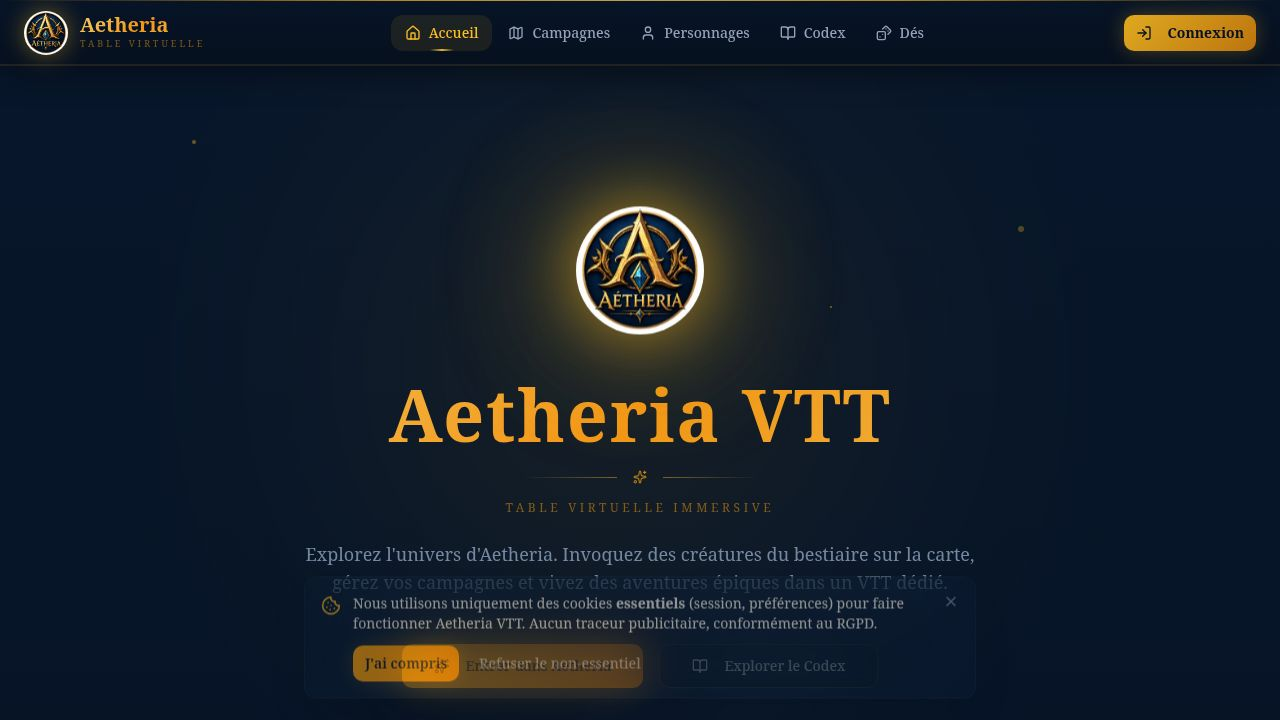
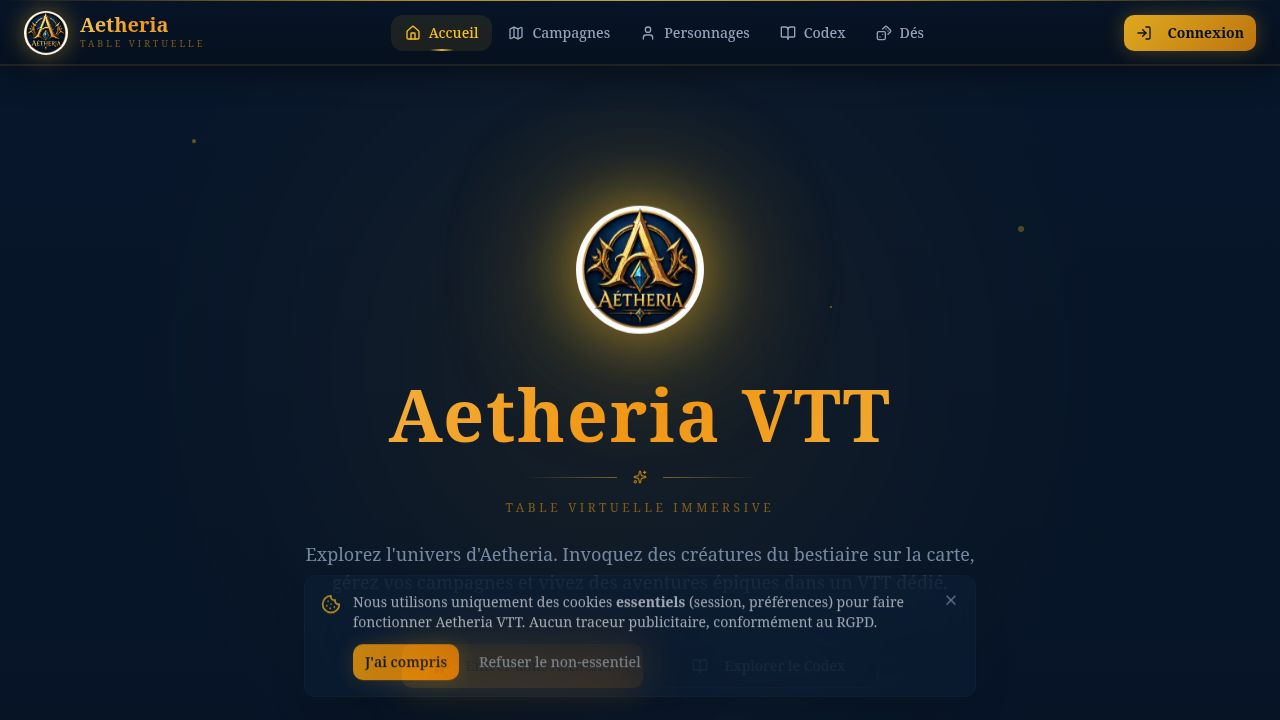
feat: add confirmation dialog before removing a player from a campaign
Task #8 — Ask the GM to confirm before removing a player from a campaign.

## What changed
- artifacts/questmaster/src/components/campaign/CampaignMembers.tsx

## Implementation
- Added `useState<{ id: string; name: string } | null>` to track which member
  the GM has clicked to remove (memberToRemove).
- The UserMinus button now calls `setMemberToRemove(...)` instead of directly
  firing the mutation.
- Added a shadcn/ui `AlertDialog` (already installed in the project) that opens
  when `memberToRemove` is non-null. Dialog title is "Retirer ce joueur de la
  campagne ?" and the description includes the player's display name.
- Confirming calls `removeMemberMutation.mutate(...)` and clears state.
- Cancelling (or closing the dialog) sets `memberToRemove` back to null — no
  DELETE request is sent.
- Imported `AlertDialog` and all required sub-components from
  `@/components/ui/alert-dialog`.

## No deviations
Implementation exactly matches the task spec: French-language dialog, shadcn/ui
AlertDialog, cancel = no action, confirm = DELETE proceeds.

Replit-Task-Id: 5685edfa-5faf-4ae2-82a9-63381c1ecd42

Changed region(s): [[0.25, 0.825, 0.7188, 0.9778], [0.4375, 0.275, 0.5625, 0.4583], [0.5625, 0.9167, 0.5938, 0.9472]]

diff --git a/artifacts/questmaster/src/components/campaign/CampaignMembers.tsx b/artifacts/questmaster/src/components/campaign/CampaignMembers.tsx
@@ -1,3 +1,4 @@
+import { useState } from "react";
 import { useQuery, useMutation, useQueryClient } from "@tanstack/react-query";
 import { campaignsApi } from "@/lib/api";
 import { Button } from "@/components/ui/button";
@@ -5,6 +6,16 @@ import { Card, CardContent } from "@/components/ui/card";
 import { Avatar, AvatarFallback, AvatarImage } from "@/components/ui/avatar";
 import { Badge } from "@/components/ui/badge";
 import { Select, SelectContent, SelectItem, SelectTrigger, SelectValue } from "@/components/ui/select";
+import {
+  AlertDialog,
+  AlertDialogAction,
+  AlertDialogCancel,
+  AlertDialogContent,
+  AlertDialogDescription,
+  AlertDialogFooter,
+  AlertDialogHeader,
+  AlertDialogTitle,
+} from "@/components/ui/alert-dialog";
 import { toast } from "@/hooks/use-toast";
 import { Crown, User, UserMinus, Sword } from "lucide-react";
 
@@ -15,6 +26,7 @@ interface CampaignMembersProps {
 
 const CampaignMembers = ({ campaignId, isGM }: CampaignMembersProps) => {
   const queryClient = useQueryClient();
+  const [memberToRemove, setMemberToRemove] = useState<{ id: string; name: string } | null>(null);
 
   const { data: members = [] } = useQuery({
     queryKey: ["campaignMembers", campaignId],
@@ -133,7 +145,7 @@ const CampaignMembers = ({ campaignId, isGM }: CampaignMembersProps) => {
                     variant="ghost"
                     size="icon"
                     className="h-8 w-8 text-muted-foreground hover:text-destructive"
-                    onClick={() => removeMemberMutation.mutate(member.id)}
+                    onClick={() => setMemberToRemove({ id: member.id, name: member.display_name || "Joueur" })}
                   >
                     <UserMinus className="h-4 w-4" />
                   </Button>
@@ -151,6 +163,31 @@ const CampaignMembers = ({ campaignId, isGM }: CampaignMembersProps) => {
           <p className="text-sm text-muted-foreground">Partagez le code d'invitation pour recruter des joueurs</p>
         </div>
       )}
+
+      <AlertDialog open={!!memberToRemove} onOpenChange={(open) => { if (!open) setMemberToRemove(null); }}>
+        <AlertDialogContent>
+          <AlertDialogHeader>
+            <AlertDialogTitle>Retirer ce joueur de la campagne ?</AlertDialogTitle>
+            <AlertDialogDescription>
+              {memberToRemove?.name} sera retiré de la campagne. Cette action ne peut pas être annulée depuis l'interface.
+            </AlertDialogDescription>
+          </AlertDialogHeader>
+          <AlertDialogFooter>
+            <AlertDialogCancel>Annuler</AlertDialogCancel>
+            <AlertDialogAction
+              className="bg-destructive text-destructive-foreground hover:bg-destructive/90"
+              onClick={() => {
+                if (memberToRemove) {
+                  removeMemberMutation.mutate(memberToRemove.id);
+                  setMemberToRemove(null);
+                }
+              }}
+            >
+              Retirer
+            </AlertDialogAction>
+          </AlertDialogFooter>
+        </AlertDialogContent>
+      </AlertDialog>
     </div>
   );
 };